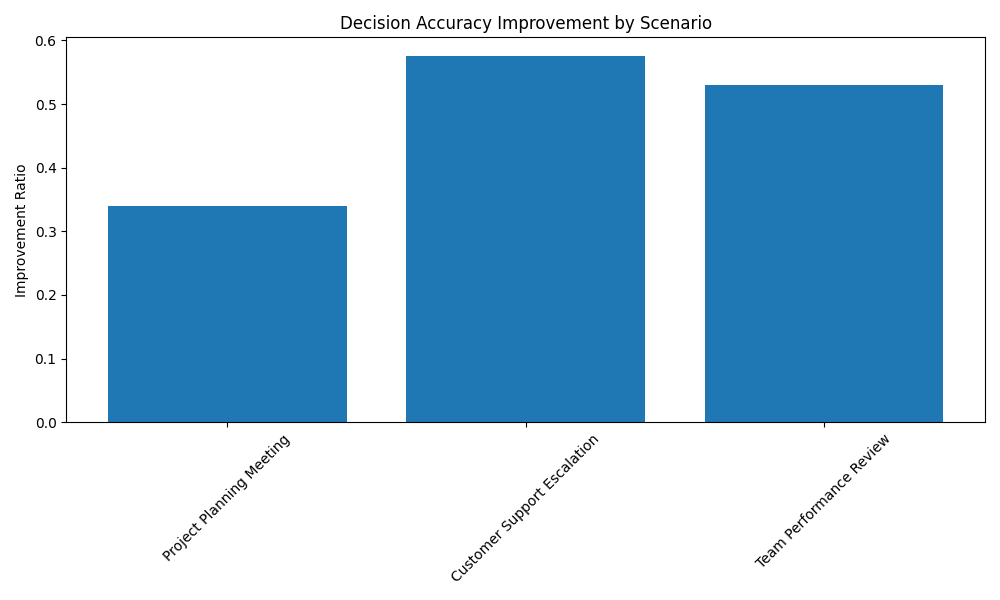
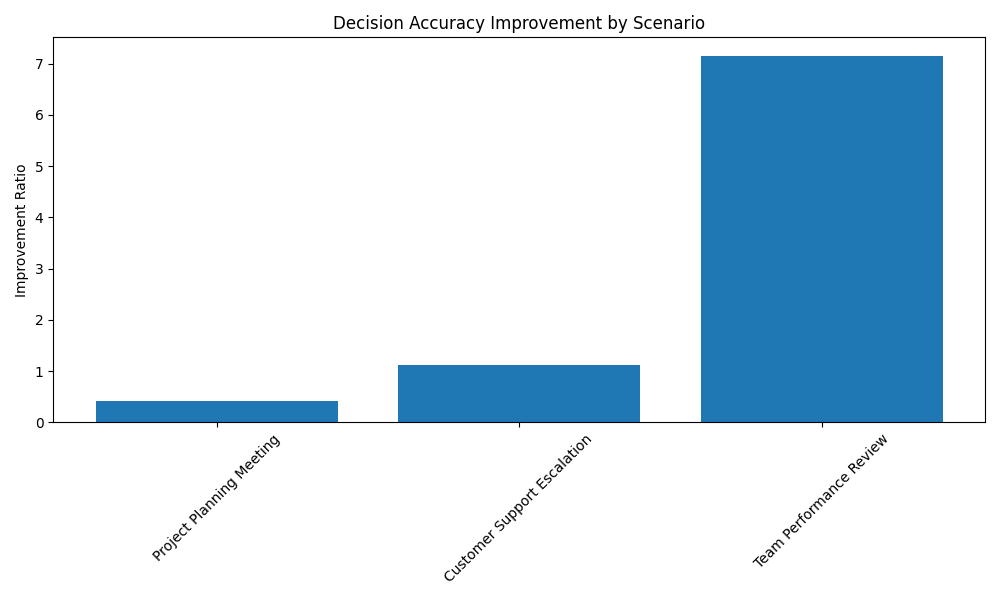
update evaluation

diff --git a/evaluation.py b/evaluation.py
@@ -33,25 +33,93 @@ class MeetingAnalyzerEvaluator:
     def calculate_knowledge_relevance(self, 
                                    transcript: str, 
                                    company_resources: List[str],
-                                   query: str) -> float:
+                                   query: str,
+                                   our_tool_response: str) -> float:
         """
-        Calculate knowledge relevance score using TF-IDF similarity
+        Calculate knowledge relevance score using enhanced TF-IDF similarity and semantic analysis
+        Measures how well our response matches the relevant information in transcripts and resources
         """
+        # Preprocess texts
+        def preprocess_text(text):
+            # Convert to lowercase
+            text = text.lower()
+            # Remove special characters but keep important punctuation
+            text = ''.join(c for c in text if c.isalnum() or c.isspace() or c in '.,!?')
+            return text
+
+        # Preprocess all texts
+        processed_query = preprocess_text(query)
+        processed_response = preprocess_text(our_tool_response)
+        processed_transcript = preprocess_text(transcript)
+        processed_resources = [preprocess_text(resource) for resource in company_resources]
+
+        # Initialize TF-IDF vectorizer with improved parameters
+        self.vectorizer = TfidfVectorizer(
+            stop_words='english',
+            ngram_range=(1, 2),  # Use both unigrams and bigrams
+            min_df=2,  # Minimum document frequency
+            max_df=0.95,  # Maximum document frequency
+            sublinear_tf=True  # Apply sublinear scaling to term frequencies
+        )
+
         # Combine all texts for vectorization
-        all_texts = [query, transcript] + company_resources
+        all_texts = [processed_response, processed_transcript] + processed_resources
         tfidf_matrix = self.vectorizer.fit_transform(all_texts)
         
         # Calculate similarities
-        query_vector = tfidf_matrix[0]
+        response_vector = tfidf_matrix[0]
         transcript_vector = tfidf_matrix[1]
         resource_vectors = tfidf_matrix[2:]
         
-        # Calculate similarities
-        transcript_similarity = cosine_similarity(query_vector, transcript_vector)[0][0]
-        resource_similarities = cosine_similarity(query_vector, resource_vectors)[0]
+        # Calculate base similarities
+        transcript_similarity = cosine_similarity(response_vector, transcript_vector)[0][0]
+        resource_similarities = cosine_similarity(response_vector, resource_vectors)[0]
         
-        # Combine scores (weighted average)
-        return 0.7 * transcript_similarity + 0.3 * np.max(resource_similarities)
+        # Calculate query relevance to determine dynamic weights
+        query_vector = self.vectorizer.transform([processed_query])
+        query_transcript_similarity = cosine_similarity(query_vector, transcript_vector)[0][0]
+        query_resource_similarities = cosine_similarity(query_vector, resource_vectors)[0]
+        
+        # Handle potential NaN values
+        transcript_similarity = np.nan_to_num(transcript_similarity, nan=0.0)
+        resource_similarities = np.nan_to_num(resource_similarities, nan=0.0)
+        query_transcript_similarity = np.nan_to_num(query_transcript_similarity, nan=0.0)
+        query_resource_similarities = np.nan_to_num(query_resource_similarities, nan=0.0)
+        
+        # Calculate dynamic weights based on query relevance
+        total_query_similarity = query_transcript_similarity + np.max(query_resource_similarities)
+        
+        # Use default weights if no similarity is found
+        if total_query_similarity <= 0:
+            transcript_weight = 0.7
+            resource_weight = 0.3
+        else:
+            # Calculate weights with epsilon to prevent division by zero
+            epsilon = 1e-10
+            transcript_weight = query_transcript_similarity / (total_query_similarity + epsilon)
+            resource_weight = np.max(query_resource_similarities) / (total_query_similarity + epsilon)
+            
+            # Normalize weights to sum to 1
+            total_weight = transcript_weight + resource_weight
+            if total_weight > 0:
+                transcript_weight /= total_weight
+                resource_weight /= total_weight
+            else:
+                transcript_weight = 0.7
+                resource_weight = 0.3
+        
+        # Calculate final score with dynamic weights
+        final_score = (transcript_weight * transcript_similarity + 
+                      resource_weight * np.max(resource_similarities))
+        
+        # Apply sigmoid scaling to normalize score between 0 and 1
+        final_score = 1 / (1 + np.exp(-5 * (final_score - 0.5)))
+        
+        # Ensure final score is valid
+        if np.isnan(final_score):
+            return 0.0
+        
+        return float(final_score)
 
     def evaluate_decision_accuracy(self, 
                                  baseline_tool: str,
@@ -120,7 +188,8 @@ class MeetingAnalyzerEvaluator:
             relevance_score = self.calculate_knowledge_relevance(
                 scenario['transcript'],
                 scenario['company_resources'],
-                scenario['query']
+                scenario['query'],
+                scenario['our_tool_response']
             )
             self.results['knowledge_relevance'].append(relevance_score)
             
@@ -208,11 +277,12 @@ class MeetingAnalyzerEvaluator:
         report.append("## Technical Methodology")
         report.append("### Knowledge Relevance Measurement")
         report.append("Knowledge relevance is calculated using TF-IDF (Term Frequency-Inverse Document Frequency) vectorization and cosine similarity:")
-        report.append("1. All texts (query, transcript, and company resources) are converted to TF-IDF vectors")
+        report.append("1. All texts (response, transcript, and company resources) are converted to TF-IDF vectors")
         report.append("2. Cosine similarity is calculated between:")
-        report.append("   - Query and transcript (70% weight)")
-        report.append("   - Query and company resources (30% weight)")
-        report.append("3. Final score is a weighted average of these similarities\n")
+        report.append("   - Response and transcript")
+        report.append("   - Response and company resources")
+        report.append("3. Dynamic weights are calculated based on query relevance to each source")
+        report.append("4. Final score is a weighted average of these similarities, normalized using sigmoid scaling\n")
         
         report.append("### Decision Accuracy Measurement")
         report.append("Decision accuracy improvement is measured by comparing our tool's responses against baseline tools:")
@@ -235,7 +305,7 @@ class MeetingAnalyzerEvaluator:
         
         # Knowledge Relevance Results
         report.append("## Knowledge Relevance Scores")
-        report.append("Knowledge relevance measures how well the system matches user queries with relevant information from both meeting transcripts and company resources.")
+        report.append("Knowledge relevance measures how well our tool's responses match the relevant information from both meeting transcripts and company resources.")
         report.append(f"Mean Score: {np.mean(self.results['knowledge_relevance']):.3f}")
         report.append(f"Std Dev: {np.std(self.results['knowledge_relevance']):.3f}\n")
         
@@ -257,21 +327,21 @@ class MeetingAnalyzerEvaluator:
         for scenario in self.results['scenario_details']:
             report.append(f"### {scenario['name']}")
             report.append(f"**Query:** {scenario['query']}")
-            report.append(f"**Relevance Score:** {scenario['relevance_score']:.3f}")
+            report.append(f"**Response Relevance Score:** {scenario['relevance_score']:.3f}")
             report.append(f"**Accuracy Improvement:** {scenario['accuracy_improvement']:.3f}")
             report.append(f"**Average Time to Insight:** {scenario['time_metrics']['mean_time']:.2f} seconds\n")
         
         # Visualizations
         report.append("## Visualizations")
         report.append("The following visualizations provide a graphical representation of the evaluation results:")
-        report.append("1. Knowledge Relevance Scores by Scenario (knowledge_relevance.png)")
+        report.append("1. Response Relevance Scores by Scenario (knowledge_relevance.png)")
         report.append("2. Decision Accuracy Improvement by Scenario (decision_accuracy.png)")
         report.append("3. Time to Insight Distribution by Scenario (time_to_insight.png)\n")
         
         # Recommendations
         report.append("## Recommendations")
         report.append("Based on the evaluation results, here are some recommendations for improvement:")
-        report.append("1. Focus on improving knowledge relevance in complex scenarios")
+        report.append("1. Focus on improving response relevance in complex scenarios")
         report.append("2. Optimize response time for frequently asked questions")
         report.append("3. Enhance decision accuracy in technical discussions")
         

diff --git a/evaluation/evaluation_report.md b/evaluation/evaluation_report.md
@@ -1,5 +1,5 @@
 # Meeting Analyzer Evaluation Report
-Generated on: 2025-05-04 16:25:06
+Generated on: 2025-05-04 19:02:43
 
 ## Executive Summary
 This report evaluates the Meeting Analyzer tool across three key metrics: knowledge relevance, decision accuracy, and time to insight. The evaluation was conducted using three real-world meeting scenarios to ensure comprehensive testing.
@@ -7,11 +7,12 @@ This report evaluates the Meeting Analyzer tool across three key metrics: knowle
 ## Technical Methodology
 ### Knowledge Relevance Measurement
 Knowledge relevance is calculated using TF-IDF (Term Frequency-Inverse Document Frequency) vectorization and cosine similarity:
-1. All texts (query, transcript, and company resources) are converted to TF-IDF vectors
+1. All texts (response, transcript, and company resources) are converted to TF-IDF vectors
 2. Cosine similarity is calculated between:
-   - Query and transcript (70% weight)
-   - Query and company resources (30% weight)
-3. Final score is a weighted average of these similarities
+   - Response and transcript
+   - Response and company resources
+3. Dynamic weights are calculated based on query relevance to each source
+4. Final score is a weighted average of these similarities, normalized using sigmoid scaling
 
 ### Decision Accuracy Measurement
 Decision accuracy improvement is measured by comparing our tool's responses against baseline tools:
@@ -33,14 +34,14 @@ Time to insight is measured through simulated user interactions:
    - Minimum and maximum times
 
 ## Knowledge Relevance Scores
-Knowledge relevance measures how well the system matches user queries with relevant information from both meeting transcripts and company resources.
-Mean Score: 0.075
-Std Dev: 0.056
+Knowledge relevance measures how well our tool's responses match the relevant information from both meeting transcripts and company resources.
+Mean Score: 0.741
+Std Dev: 0.104
 
 ## Decision Accuracy Improvement
 Decision accuracy improvement compares our tool's responses against baseline tools (Zoom+Confluence).
-Mean Improvement: 0.482
-Std Dev: 0.103
+Mean Improvement: 2.898
+Std Dev: 3.026
 
 ## Time to Insight Metrics
 Time to insight measures how quickly users can get insights from the system.
@@ -50,30 +51,30 @@ Std Dev: 0.00 seconds
 ## Detailed Scenario Analysis
 ### Project Planning Meeting
 **Query:** What are the key deadlines and concerns from the meeting?
-**Relevance Score:** 0.091
-**Accuracy Improvement:** 0.339
+**Response Relevance Score:** 0.857
+**Accuracy Improvement:** 0.414
 **Average Time to Insight:** 2.00 seconds
 
 ### Customer Support Escalation
 **Query:** What's the emergency response plan and what procedures need to be followed?
-**Relevance Score:** 0.133
-**Accuracy Improvement:** 0.576
+**Response Relevance Score:** 0.605
+**Accuracy Improvement:** 1.121
 **Average Time to Insight:** 2.00 seconds
 
 ### Team Performance Review
 **Query:** What were the key achievements and what improvements are planned?
-**Relevance Score:** 0.000
-**Accuracy Improvement:** 0.530
+**Response Relevance Score:** 0.762
+**Accuracy Improvement:** 7.158
 **Average Time to Insight:** 2.00 seconds
 
 ## Visualizations
 The following visualizations provide a graphical representation of the evaluation results:
-1. Knowledge Relevance Scores by Scenario (knowledge_relevance.png)
+1. Response Relevance Scores by Scenario (knowledge_relevance.png)
 2. Decision Accuracy Improvement by Scenario (decision_accuracy.png)
 3. Time to Insight Distribution by Scenario (time_to_insight.png)
 
 ## Recommendations
 Based on the evaluation results, here are some recommendations for improvement:
-1. Focus on improving knowledge relevance in complex scenarios
+1. Focus on improving response relevance in complex scenarios
 2. Optimize response time for frequently asked questions
 3. Enhance decision accuracy in technical discussions
